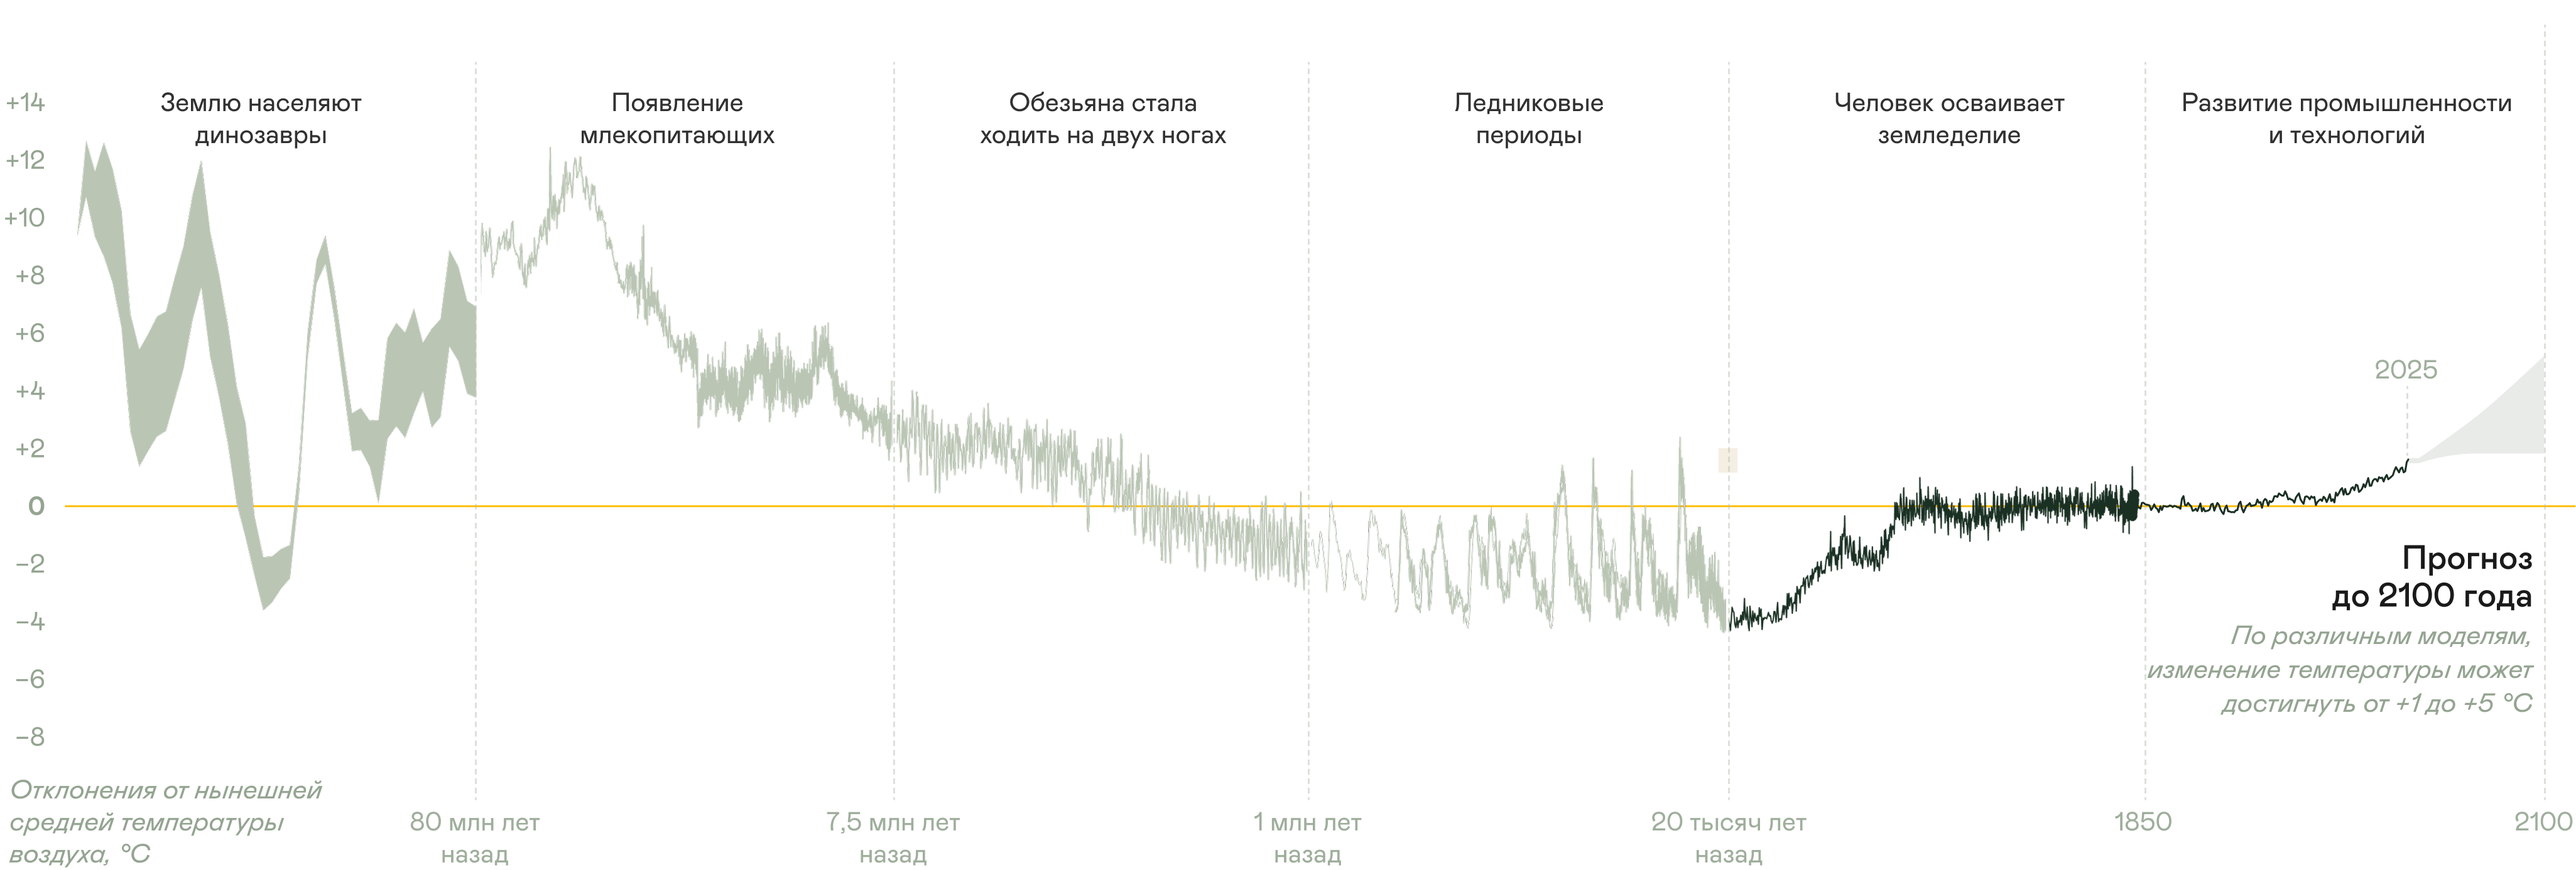
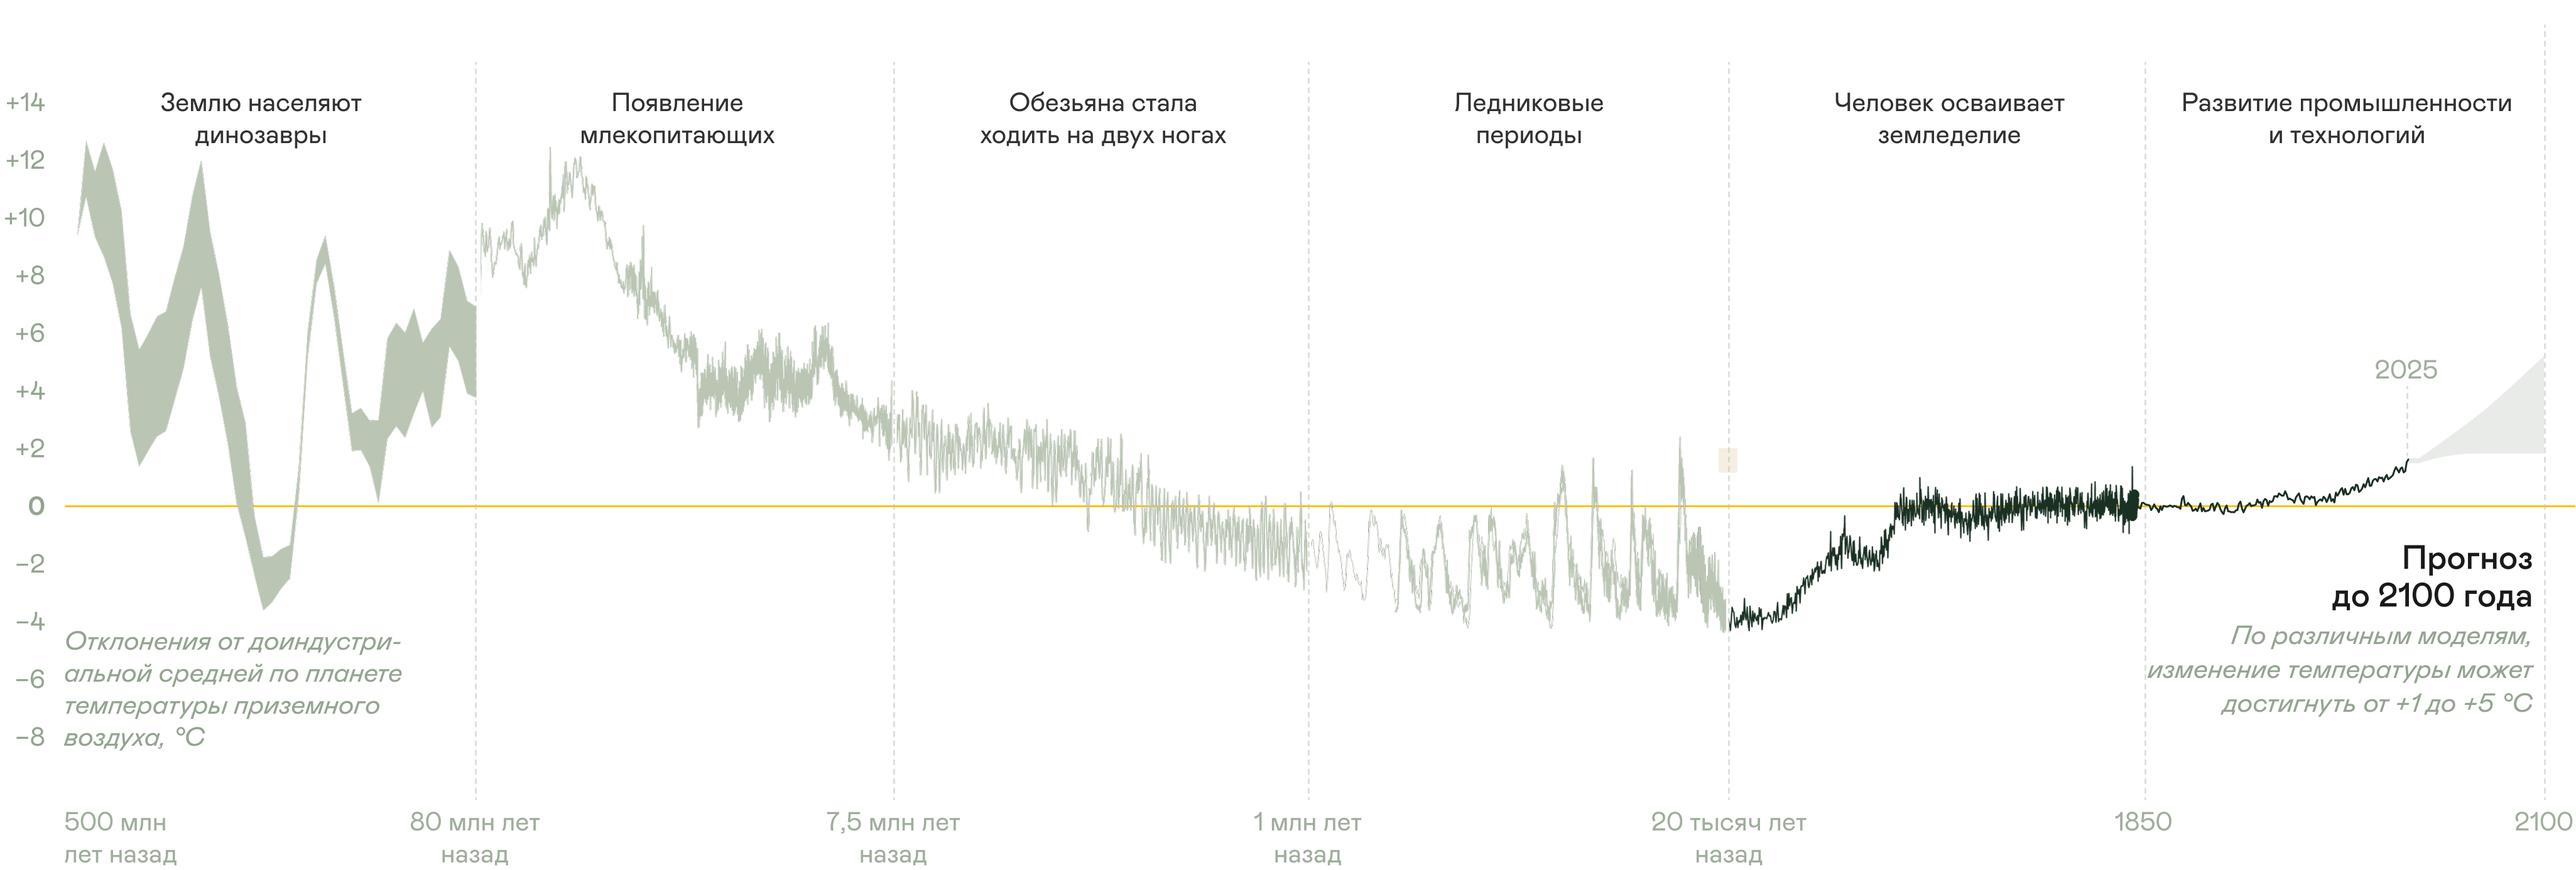
fixes

Changed region(s): [[0.0312, 0.7136, 0.1561, 0.8687], [0.0, 0.8997, 0.1248, 0.9928]]

diff --git a/chapter-1.html b/chapter-1.html
@@ -310,7 +310,7 @@
       </div>
 
       <div class="text-block reveal">
-        <p class="body-text">Начиная с&nbsp;1970-х годов, климатические модели развивались и&nbsp;учитывали всё&nbsp;больше факторов и&nbsp;становились точнее.</p>
+        <p class="body-text">Начиная с&nbsp;1970-х годов, климатические модели развивались и&nbsp;учитывали всё&nbsp;больше факторов и&nbsp;становились точнее. За физическое моделирование климата Земли, количественную оценку изменчивости и надежное прогнозирование глобального потепления в 2021-м году была вручена Нобелевская премия по физике.</p>
       </div>
     </section>
 
